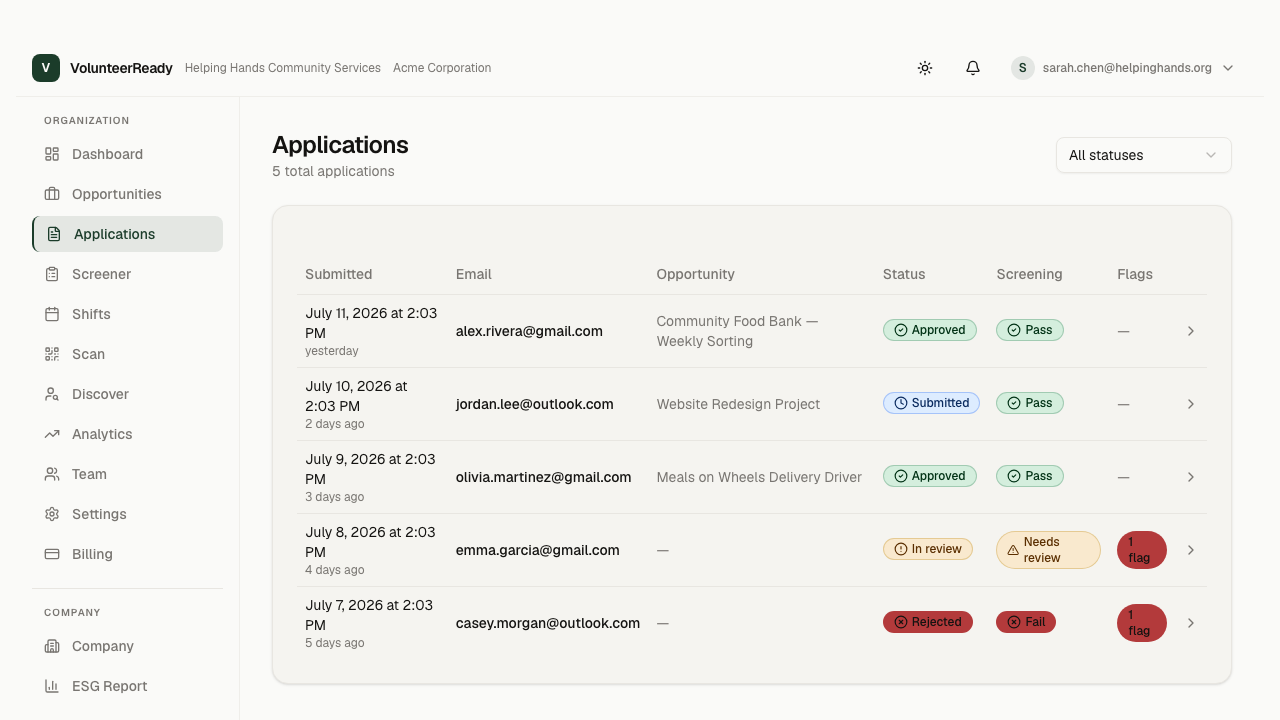
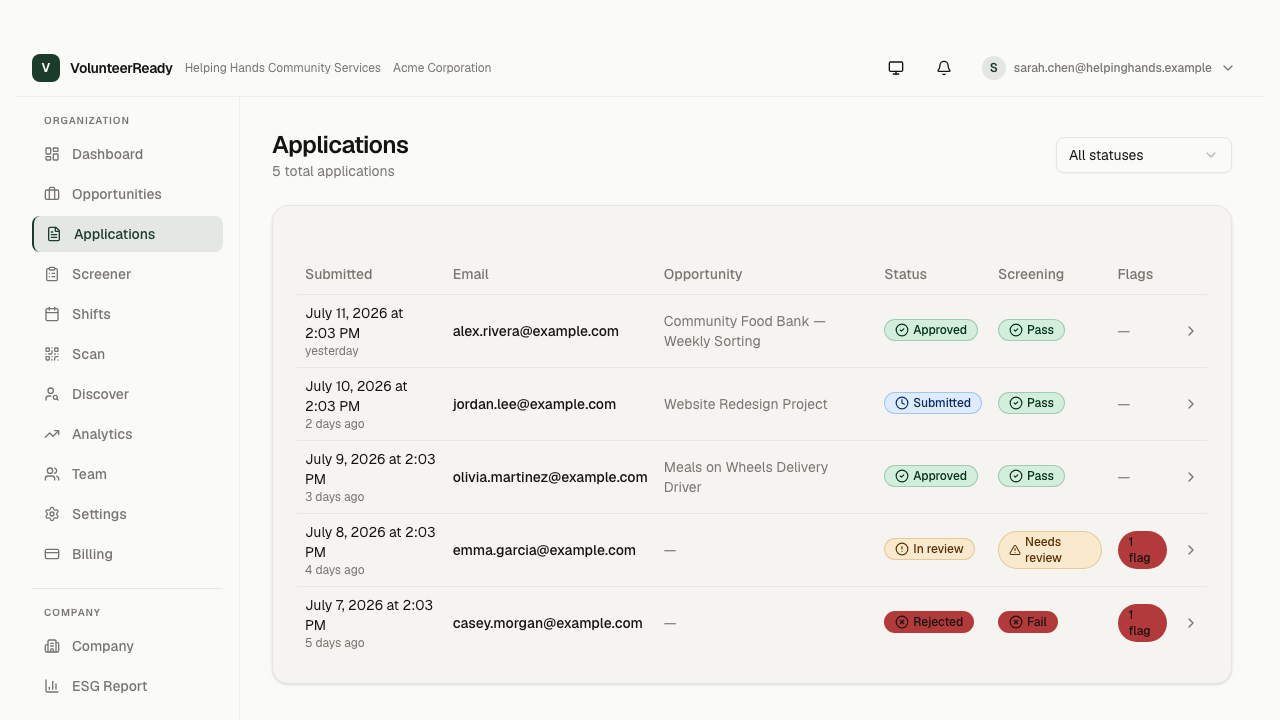
fix: pre-landing review fixes
- Recapture all marketing screenshots with RFC 2606-safe demo emails
  (@example.com / .example domains) — cross-model adversarial finding:
  previous captures attributed screening outcomes to plausibly-real
  gmail/outlook addresses and a real charity domain (helpinghands.org)
- Update prisma/seed-dev.ts personas to the same safe domains so future
  captures can't regress
- CLAUDE.md: 5 → 6 Central Valley locations (stale after Fresno)
- locations.ts: fix user-visible FAQ grammar ('a export' → 'an export')
- opportunities/[orgSlug]: drop purposeless div wrapper left after
  Playfair removal

diff --git a/prisma/seed-dev.ts b/prisma/seed-dev.ts
@@ -119,21 +119,21 @@ async function seedDev() {
 
 	// --- Helping Hands staff ---
 	const sarah = await upsertUser(
-		'sarah.chen@helpinghands.org',
+		'sarah.chen@helpinghands.example',
 		'Sarah Chen',
 		'https://i.pravatar.cc/150?u=sarah',
 	);
 	const marcus = await upsertUser(
-		'marcus.johnson@helpinghands.org',
+		'marcus.johnson@helpinghands.example',
 		'Marcus Johnson',
 		'https://i.pravatar.cc/150?u=marcus',
 	);
 	const priya = await upsertUser(
-		'priya.patel@helpinghands.org',
+		'priya.patel@helpinghands.example',
 		'Priya Patel',
 		'https://i.pravatar.cc/150?u=priya',
 	);
-	const tom = await upsertUser('tom.wright@helpinghands.org', 'Tom Wright');
+	const tom = await upsertUser('tom.wright@helpinghands.example', 'Tom Wright');
 
 	await upsertMember(helpingHands.id, sarah.id, Role.OWNER);
 	await upsertMember(helpingHands.id, marcus.id, Role.ADMIN);
@@ -142,11 +142,11 @@ async function seedDev() {
 
 	// --- Green City Parks staff ---
 	const elena = await upsertUser(
-		'elena.vasquez@greencityparks.org',
+		'elena.vasquez@greencityparks.example',
 		'Elena Vasquez',
 		'https://i.pravatar.cc/150?u=elena',
 	);
-	const james = await upsertUser('james.ko@greencityparks.org', 'James Ko');
+	const james = await upsertUser('james.ko@greencityparks.example', 'James Ko');
 
 	await upsertMember(greenCity.id, elena.id, Role.OWNER);
 	await upsertMember(greenCity.id, james.id, Role.STAFF);
@@ -155,7 +155,7 @@ async function seedDev() {
 
 	// --- Youth Futures staff ---
 	const diana = await upsertUser(
-		'diana.okafor@youthfutures.org',
+		'diana.okafor@youthfutures.example',
 		'Diana Okafor',
 		'https://i.pravatar.cc/150?u=diana',
 	);
@@ -172,41 +172,41 @@ async function seedDev() {
 	console.log('🙋 Creating volunteers...');
 
 	const vol1 = await upsertUser(
-		'alex.rivera@gmail.com',
+		'alex.rivera@example.com',
 		'Alex Rivera',
 		'https://i.pravatar.cc/150?u=alex',
 	);
 	const vol2 = await upsertUser(
-		'jordan.lee@outlook.com',
+		'jordan.lee@example.com',
 		'Jordan Lee',
 		'https://i.pravatar.cc/150?u=jordan',
 	);
 	const vol3 = await upsertUser(
-		'maya.thompson@yahoo.com',
+		'maya.thompson@example.com',
 		'Maya Thompson',
 		'https://i.pravatar.cc/150?u=maya',
 	);
-	const vol4 = await upsertUser('sam.nguyen@gmail.com', 'Sam Nguyen');
+	const vol4 = await upsertUser('sam.nguyen@example.com', 'Sam Nguyen');
 	const vol5 = await upsertUser(
-		'olivia.martinez@gmail.com',
+		'olivia.martinez@example.com',
 		'Olivia Martinez',
 		'https://i.pravatar.cc/150?u=olivia',
 	);
-	const vol6 = await upsertUser('liam.chen@proton.me', 'Liam Chen');
+	const vol6 = await upsertUser('liam.chen@example.com', 'Liam Chen');
 	const vol7 = await upsertUser(
-		'ava.jackson@gmail.com',
+		'ava.jackson@example.com',
 		'Ava Jackson',
 		'https://i.pravatar.cc/150?u=ava',
 	);
 	// biome-ignore lint/correctness/noUnusedVariables: seeded for data completeness
-	const vol8 = await upsertUser('noah.williams@outlook.com', 'Noah Williams');
+	const vol8 = await upsertUser('noah.williams@example.com', 'Noah Williams');
 	const vol9 = await upsertUser(
-		'emma.garcia@gmail.com',
+		'emma.garcia@example.com',
 		'Emma Garcia',
 		'https://i.pravatar.cc/150?u=emma',
 	);
 	// biome-ignore lint/correctness/noUnusedVariables: seeded for data completeness
-	const vol10 = await upsertUser('ethan.brown@yahoo.com', 'Ethan Brown');
+	const vol10 = await upsertUser('ethan.brown@example.com', 'Ethan Brown');
 
 	// =========================================================================
 	// 6. Volunteer profiles (varying completeness)
@@ -1552,7 +1552,7 @@ async function seedDev() {
 		.create({
 			data: {
 				orgId: helpingHands.id,
-				email: 'newstaff@helpinghands.org',
+				email: 'newstaff@helpinghands.example',
 				role: Role.STAFF,
 				tokenHash: 'seed-invite-token-pending-hh',
 				expiresAt: daysFromNow(7),
@@ -1567,7 +1567,7 @@ async function seedDev() {
 		.create({
 			data: {
 				orgId: greenCity.id,
-				email: 'expired-invite@greencityparks.org',
+				email: 'expired-invite@greencityparks.example',
 				role: Role.STAFF,
 				tokenHash: 'seed-invite-token-expired-gc',
 				expiresAt: daysAgo(5),

diff --git a/src/lib/locations.ts b/src/lib/locations.ts
@@ -461,7 +461,7 @@ export const LOCATIONS: LocationData[] = [
 				question:
 					'How does VolunteerReady support grant and county-contract reporting for Fresno nonprofits?',
 				answer:
-					'VolunteerReady tracks volunteer hours and screening status automatically as volunteers check in, so compliance reports for county contracts and grant funders are a export instead of a week of manual compilation before a deadline.',
+					'VolunteerReady tracks volunteer hours and screening status automatically as volunteers check in, so compliance reports for county contracts and grant funders are an export instead of a week of manual compilation before a deadline.',
 			},
 		],
 		localProof: {

diff --git a/src/app/opportunities/[orgSlug]/page.tsx b/src/app/opportunities/[orgSlug]/page.tsx
@@ -65,7 +65,7 @@ export default async function OpportunitiesPage({ params }: Props) {
 	}
 
 	return (
-		<div>
+		<>
 			<JsonLdBreadcrumb
 				items={[
 					{ label: 'Home', href: '/' },
@@ -80,6 +80,6 @@ export default async function OpportunitiesPage({ params }: Props) {
 				opportunities={result.opportunities}
 				matchResults={matchResults}
 			/>
-		</div>
+		</>
 	);
 }

diff --git a/CLAUDE.md b/CLAUDE.md
@@ -133,7 +133,7 @@ docs/
 - Email-based status lookup lives under `src/app/apply/status`.
 - QR check-in: token lib at `src/server/lib/checkin-token.ts`, scanner at `src/app/(app)/app/scan/`, QR display at `src/components/app/qr-checkin-code.tsx`
 - Geo check-in: `src/components/app/geo-checkin.tsx` + `src/server/lib/geo.ts`
-- Geo landing pages: location data at `src/lib/locations.ts` (5 Central Valley locations), pages at `src/app/(public)/locations/`, components at `src/components/location-hero.tsx`, `comparison-table.tsx`, `local-proof-section.tsx`, `lead-capture-form.tsx`
+- Geo landing pages: location data at `src/lib/locations.ts` (6 Central Valley locations), pages at `src/app/(public)/locations/`, components at `src/components/location-hero.tsx`, `comparison-table.tsx`, `local-proof-section.tsx`, `lead-capture-form.tsx`
 - Lead capture: domain at `src/server/domain/lead-capture.ts`, service at `src/server/services/leadCaptureService.ts`, repo at `src/server/repositories/leadCaptureRepo.ts`, tRPC router at `src/server/trpc/routers/leads.ts`
 - Lead capture admin: `src/app/(app)/app/admin/leads/page.tsx` (platform admin lead triage with location filtering)
 - Analytics events: `src/lib/analytics.ts` (consent-aware `trackEvent()` utility, checks `cookie-consent` localStorage)
